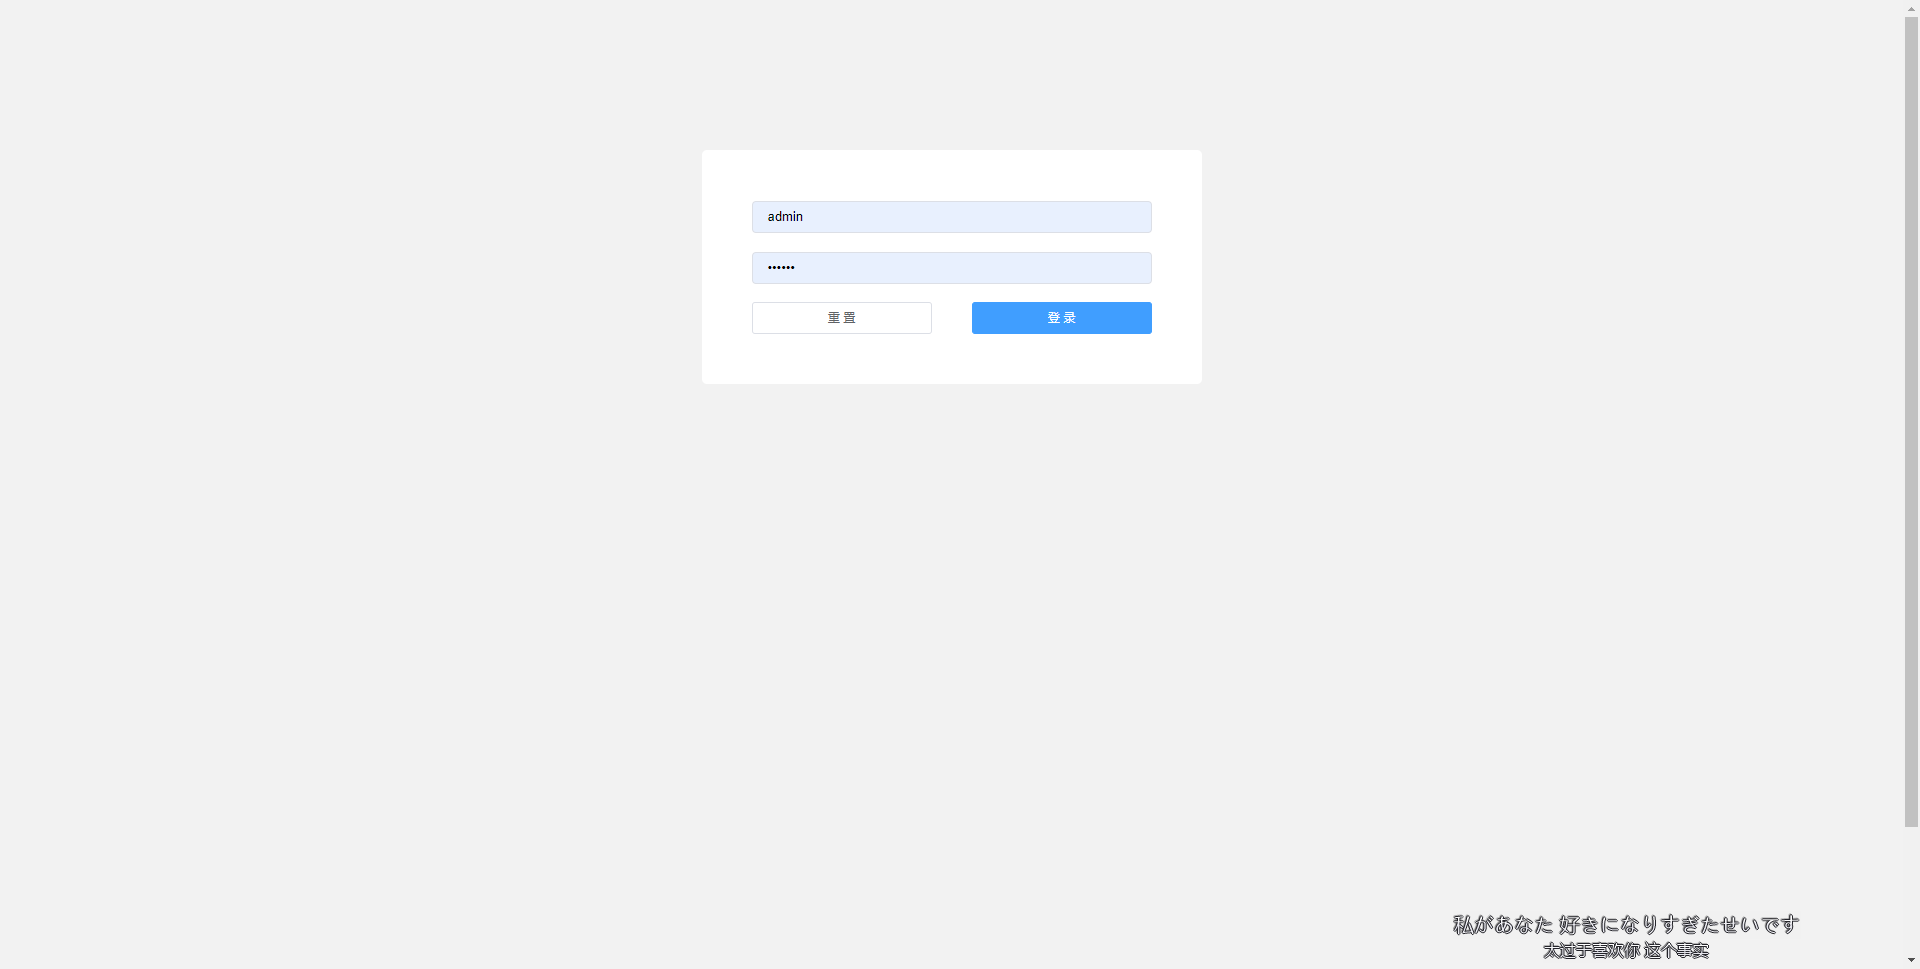
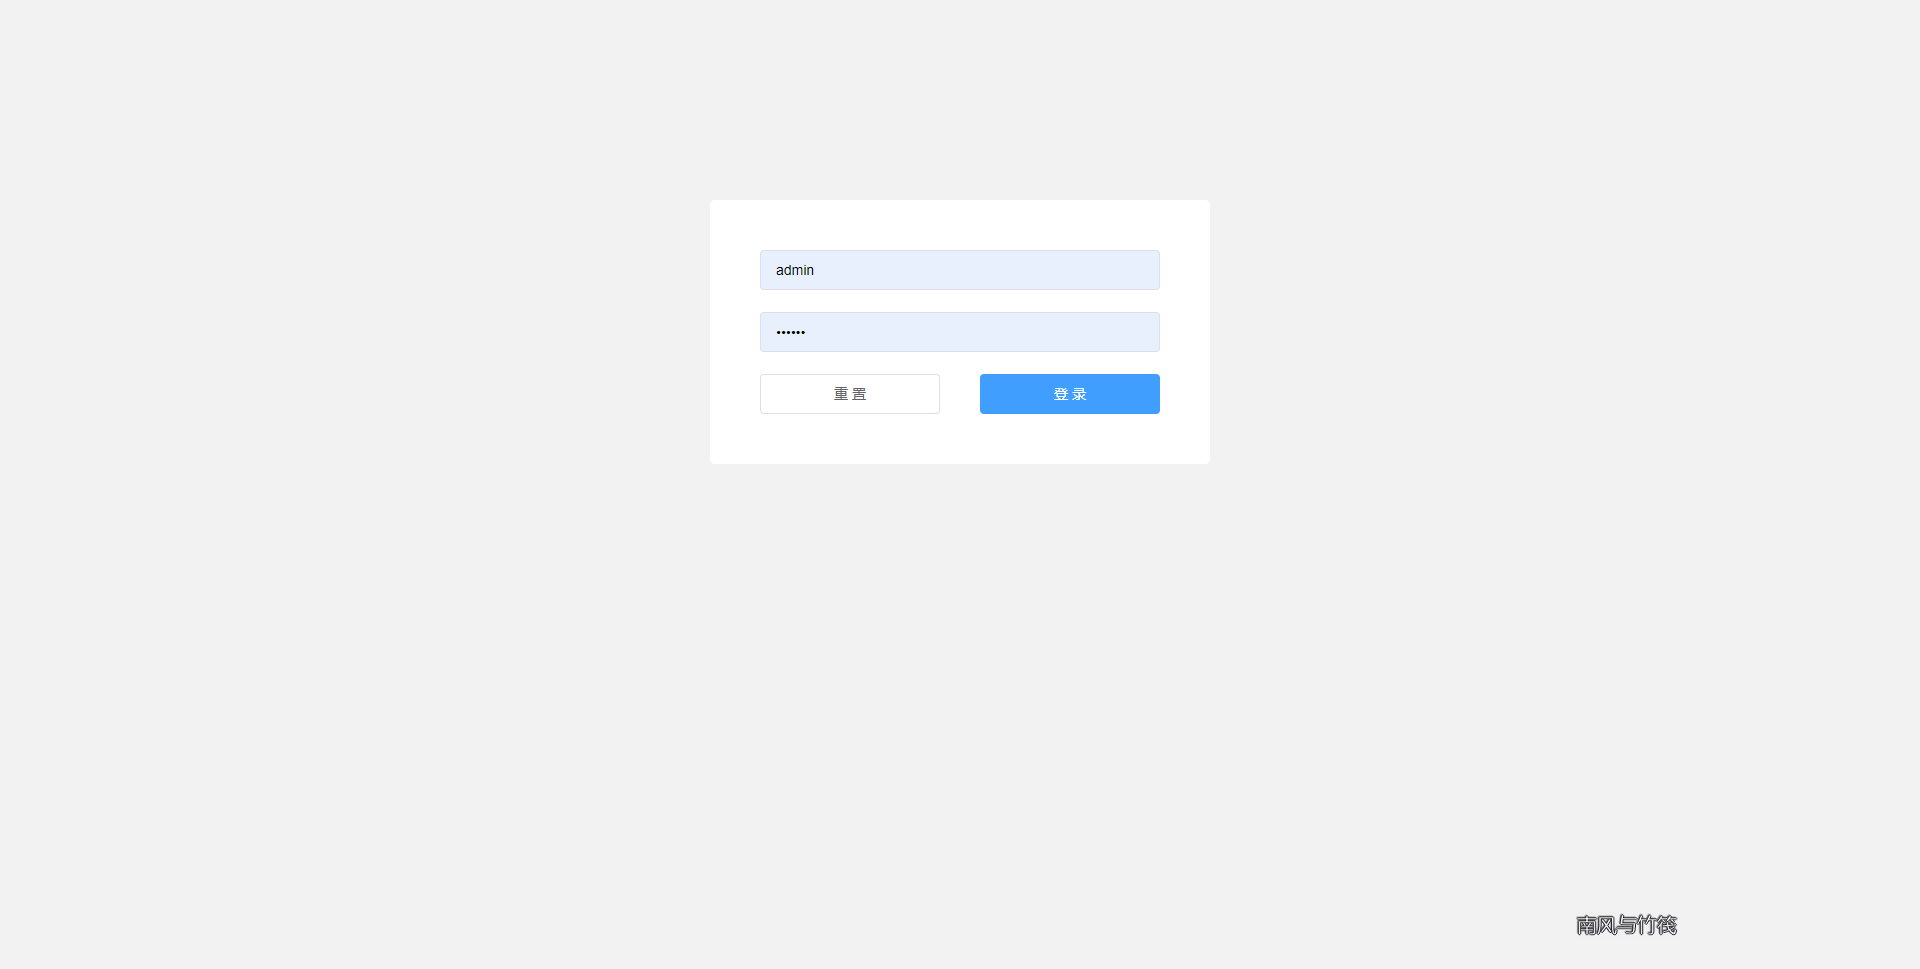
style: 登录样式微调

diff --git a/src/view/user/login/index.vue b/src/view/user/login/index.vue
@@ -6,20 +6,26 @@
           <el-input
             v-model="loginForm.username"
             placeholder="用户名"
+            size="large"
           ></el-input>
         </el-form-item>
         <el-form-item label-width="0">
           <el-input
             v-model="loginForm.password"
             type="password"
+            size="large"
             placeholder="密码"
           ></el-input>
         </el-form-item>
         <div class="k-dt8vs8-login" label-width="0">
-          <el-button style="width:45%;" @click.native.prevent="reset"
+          <el-button
+            size="large"
+            style="width:45%;"
+            @click.native.prevent="reset"
             >重 置</el-button
           >
           <el-button
+            size="large"
             type="primary"
             style="width:45%;"
             @click.native.prevent="login"
@@ -33,41 +39,42 @@
 <script>
 import Vue from "vue";
 import { Button, Form, Input, FormItem } from "element-ui";
-import { mapMutations } from "vuex"
+import { mapMutations } from "vuex";
 Vue.use(Button);
 Vue.use(Form);
 Vue.use(Input);
 Vue.use(FormItem);
-import Cookie from 'js-cookie'
+import Cookie from "js-cookie";
 export default {
   data() {
     return {
       loginForm: {
-        username: '',
-        password: '',
+        username: "",
+        password: "",
       },
     };
   },
-  methods:{
-    ...mapMutations('permSign',['setPermSign']),
-    async login(){
-      const {errorCode,data} =await this.$http.login({...this.loginForm, isShowToast:true})
-      if(errorCode === '0000'){
+  methods: {
+    ...mapMutations("permSign", ["setPermSign"]),
+    async login() {
+      const { errorCode, data } = await this.$http.login({
+        ...this.loginForm,
+        isShowToast: true,
+      });
+      if (errorCode === "0000") {
         //返回token与按钮权限permSign
-        Cookie.set('token',data.token)
-        Cookie.set('user',`${this.loginForm.username},${this.loginForm.password}`)
-        this.setPermSign(data.permSign)
-        this.$router.push('/')
+        Cookie.set("token", data.token);
+        Cookie.set(
+          "user",
+          `${this.loginForm.username},${this.loginForm.password}`
+        );
+        this.setPermSign(data.permSign);
+        this.$router.push("/");
       }
-
     },
-    reset(){
-
-    }
+    reset() {},
   },
-  created() {
-
-  },
+  created() {},
 };
 </script>
 <style src="./index.less" lang="less"></style>

diff --git a/src/view/user/login/index.less b/src/view/user/login/index.less
@@ -1,10 +1,12 @@
+.k-pk44lv {
+    padding-top: 200px;
+}
 .k-dt8vs8 {
     width: 500px;
     margin: 0 auto;
     border-radius: 5px;
     padding: 50px;
     background: #fff;
-    margin-top: 150px;
     box-sizing: border-box;
 
     .k-dt8vs8-login {
